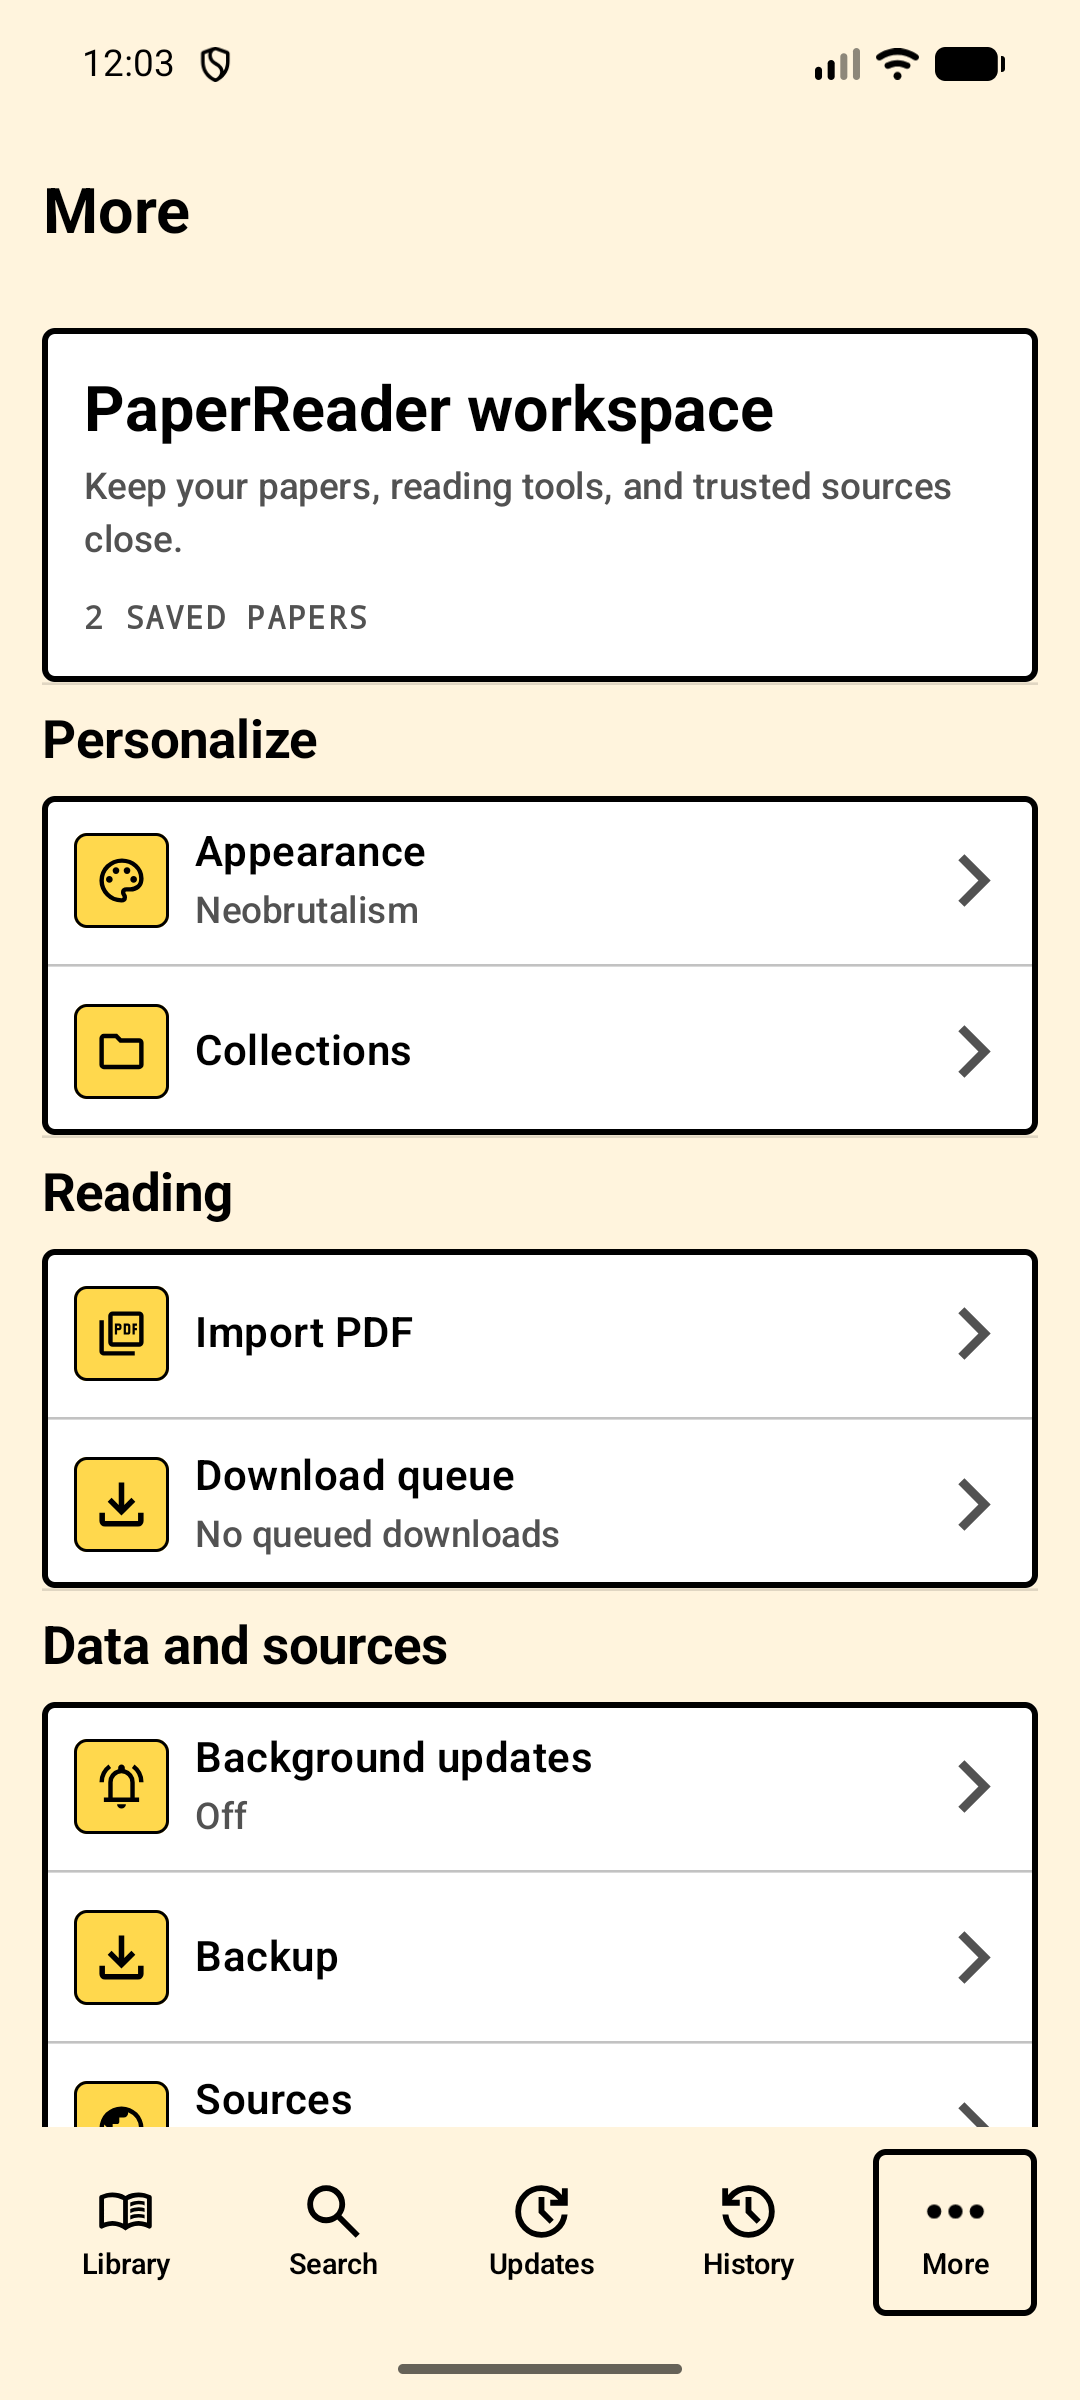
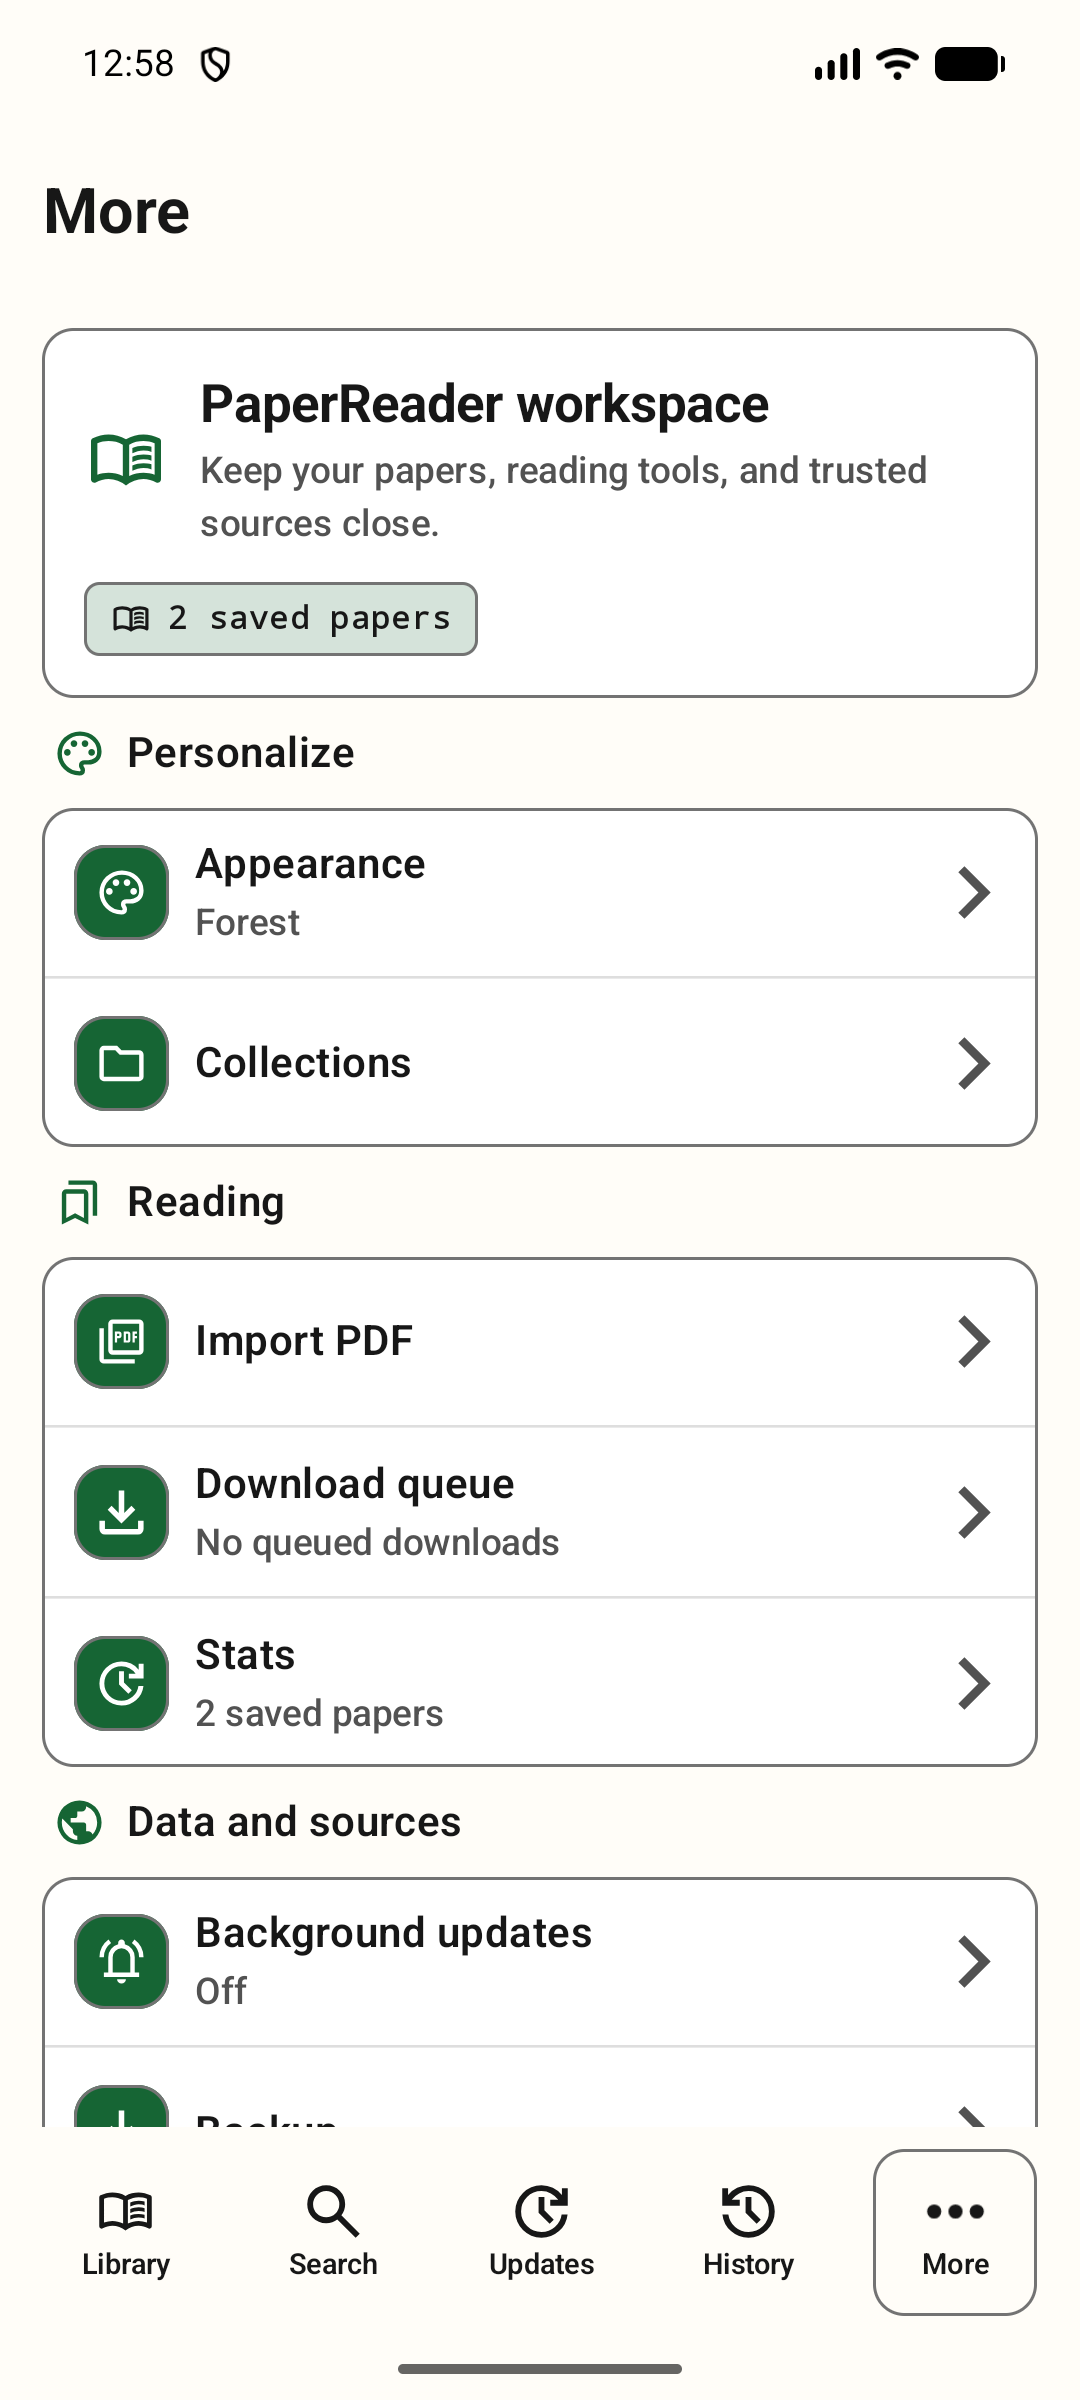
docs(site): refresh more and stats captures

diff --git a/src/content/docs/docs/screens.md b/src/content/docs/docs/screens.md
@@ -58,7 +58,8 @@ Neobrutalism preset and shows the five additional PaperReader color choices in A
 <div class="docs-screen-pair">
   <img src="../../showcase/release-2026-09-07-library.png" width="1080" height="2400" loading="lazy" alt="Local emulator Library with two saved papers and reading-status counts">
   <img src="../../showcase/release-2026-09-07-search-attention.png" width="1080" height="2400" loading="lazy" alt="Local emulator Search results for Attention">
-  <img src="../../showcase/release-2026-09-07-more.png" width="1080" height="2400" loading="lazy" alt="Local emulator More hub with grouped PaperReader settings">
+  <img src="../../showcase/release-2026-09-07-more.png" width="1080" height="2400" loading="lazy" alt="Local emulator More hub with the compact PaperReader workspace layout">
+  <img src="../../showcase/release-2026-09-07-stats.png" width="1080" height="2400" loading="lazy" alt="Local emulator Stats with reading time and grouped metrics">
   <img src="../../showcase/release-2026-09-07-appearance.png" width="1080" height="2400" loading="lazy" alt="Local emulator Appearance with Neobrutalism and five built-in color themes">
   <img src="../../showcase/release-2026-09-07-queue.png" width="1080" height="2400" loading="lazy" alt="Local emulator Download queue showing completed PDF tasks">
   <img src="../../showcase/release-2026-09-07-detail-attention.png" width="1080" height="2400" loading="lazy" alt="Local emulator Attention Paper Detail with download and read actions">

diff --git a/showcase-inventory/README.md b/showcase-inventory/README.md
@@ -34,6 +34,7 @@ describe the visible state, not a concept render.
 | `../public/showcase/emulator-library.png` | Local API 36 emulator Library with six saved papers and status counts | Docs |
 | `../public/showcase/emulator-search-attention.png` | Local emulator Search results for Attention | Docs |
 | `../public/showcase/emulator-more.png` | Local emulator More hub with grouped settings | Docs |
+| `../public/showcase/release-2026-09-07-stats.png` | Local emulator Stats hub with reading time and grouped metrics | Docs |
 | `../public/showcase/emulator-download-queue.png` | Local emulator queue with completed PDF task rows | Docs |
 | `../public/showcase/emulator-download-active.png` | Local emulator Paper Detail with a live download percentage | Docs |
 | `../public/showcase/emulator-reader-attention.png` | Local emulator cached Attention reader | Docs |
